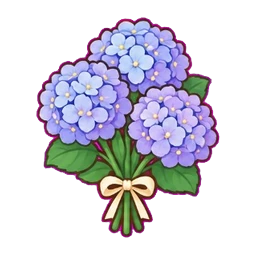
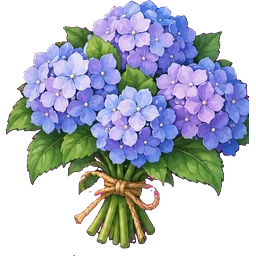
So tay 1/6: hydrangea and peony as real flowers (hoa_moi numbers, dryable, art + wilted art)

diff --git a/lib/data/economy.dart b/lib/data/economy.dart
@@ -356,6 +356,7 @@ class FlowerDef {
     required this.bundleSize,
     required this.unlockCost,
     this.wiltedArt = false,
+    this.dryable = false,
   });
 
   final String id;
@@ -369,6 +370,9 @@ class FlowerDef {
   /// Has its own wilted picture (`flowers/<id>_heo.webp`, [Art.flowerWilted]).
   /// Flowers without one only droop.
   final bool wiltedArt;
+
+  /// Can be dried (hoa_moi_block). No drying system reads it yet.
+  final bool dryable;
 }
 
 /// A paper or a ribbon. They never expire and are paid per use.
@@ -771,6 +775,7 @@ class Economy {
             bundleSize: _int(f, 'bundleSize'),
             unlockCost: _int(f, 'unlockCost'),
             wiltedArt: f['wiltedArt'] == true,
+            dryable: f['dryable'] == true,
           ),
       ],
       pots = j['pots'] is List

diff --git a/test/data/hoa_moi_test.dart b/test/data/hoa_moi_test.dart
@@ -1,0 +1,22 @@
+import 'package:flutter_test/flutter_test.dart';
+
+import '../helpers.dart';
+
+void main() {
+  test('hydrangea and peony use the hoa_moi numbers', () {
+    final e = newSession().e;
+    final h = e.flowers.firstWhere((f) => f.id == 'hydrangea');
+    final p = e.flowers.firstWhere((f) => f.id == 'peony');
+    expect(
+      [h.buyPrice, h.sellPrice, h.freshnessDays, h.bundleSize, h.unlockCost],
+      [12000, 21000, 3, 5, 350000],
+    );
+    expect(
+      [p.buyPrice, p.sellPrice, p.freshnessDays, p.bundleSize, p.unlockCost],
+      [22000, 39000, 2, 3, 600000],
+    );
+    expect(h.dryable, isTrue);
+    expect(p.dryable, isFalse);
+    expect(h.wiltedArt && p.wiltedArt, isTrue);
+  });
+}
